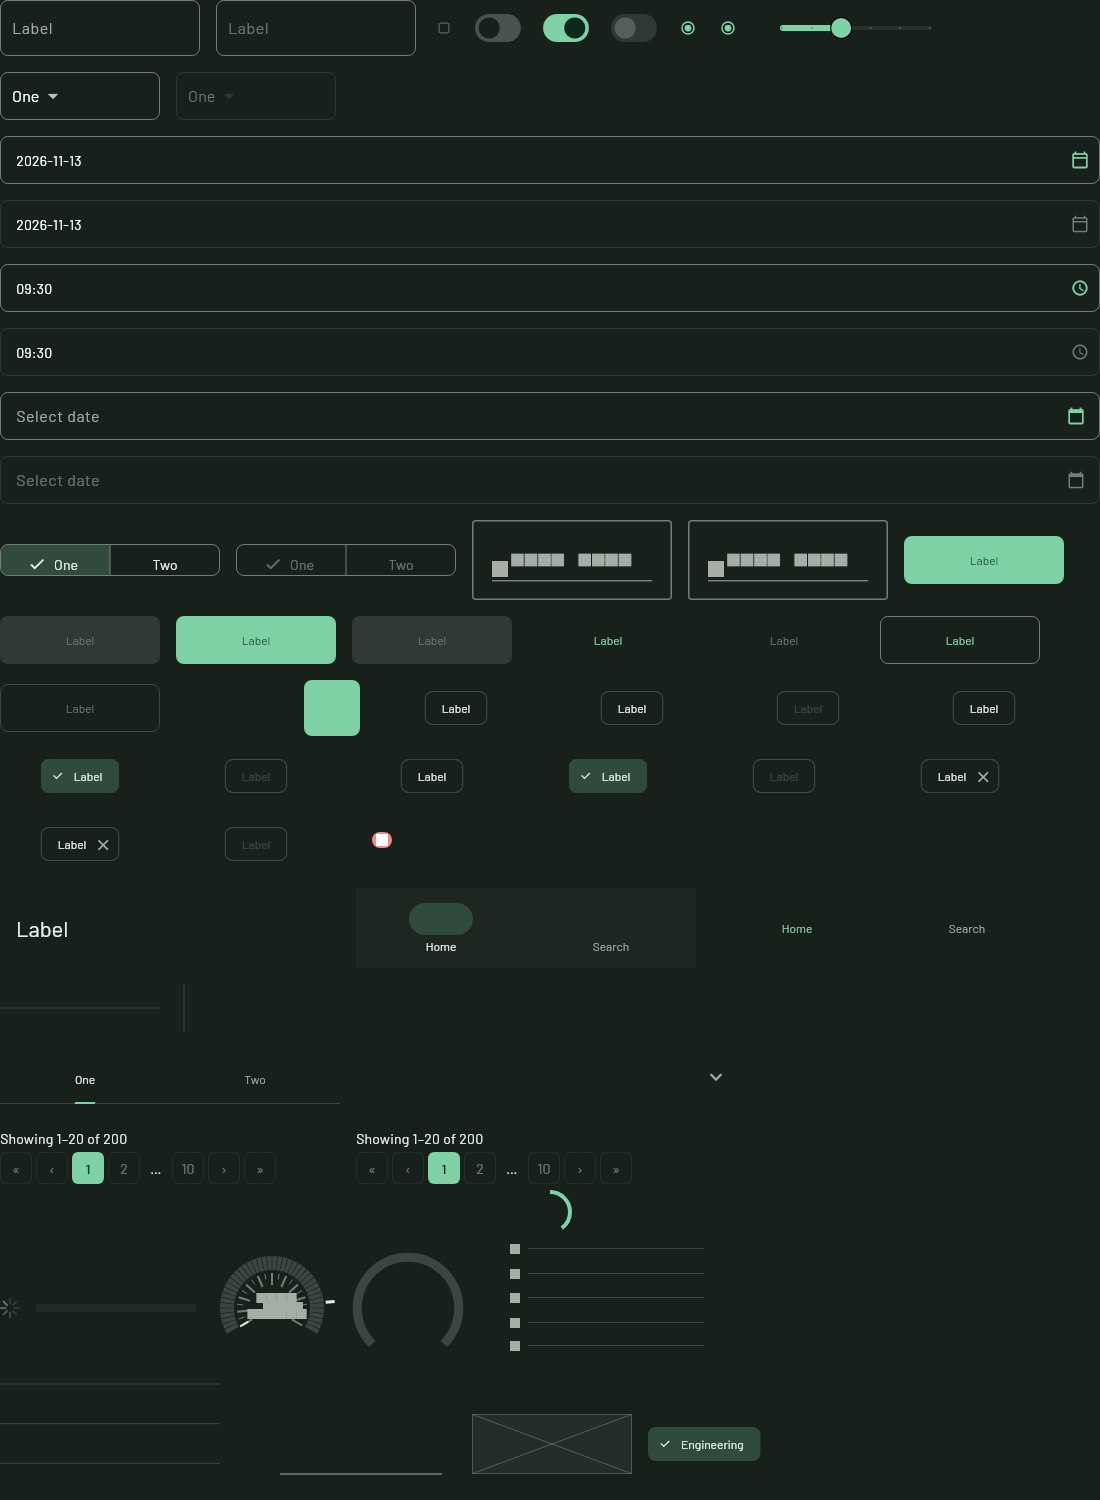
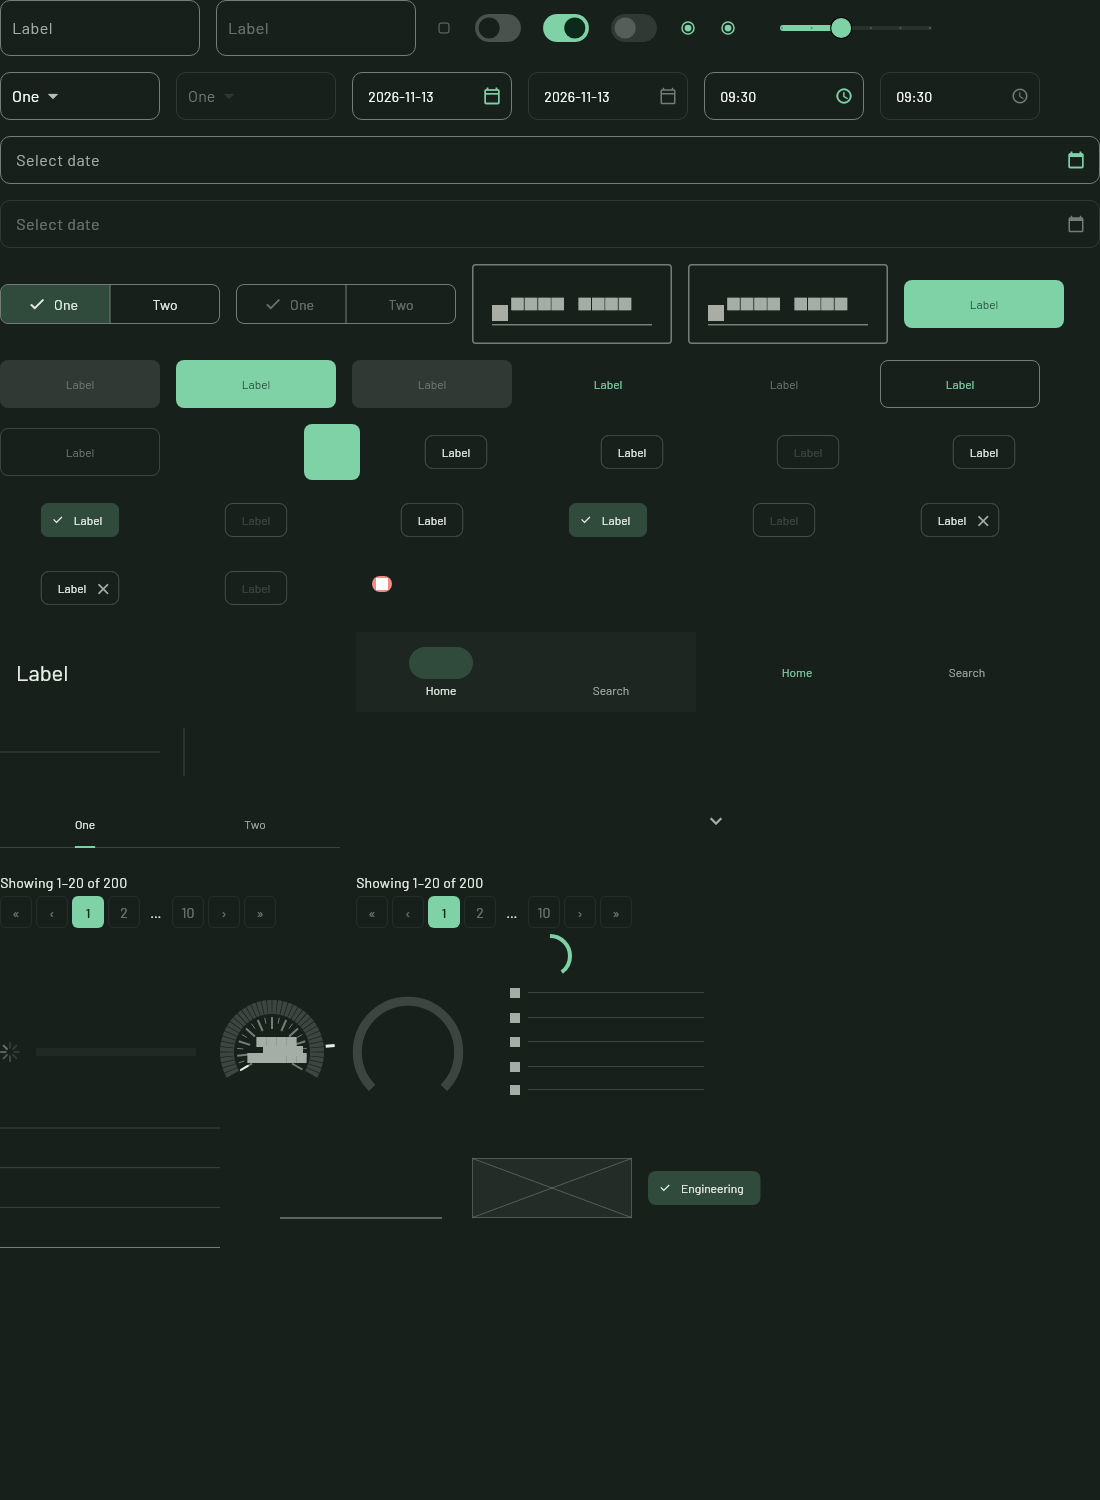
Every labelled control fits its node, its label centred
The control theme drops Material's 48 px tap-target margin and the
platform density, so a control fits the node it is drawn in instead of being
laid out taller and cut. Segmented buttons take the node's height (a
vertical density of (h - 40) / 4: their segments ignore minimumSize); a
one-line field of a set height centres its line at its dense height; date
and time fields centre theirs; tab labels are centred above the
indicator's weight; pagination's buttons are centred down its box.

The guard measures it: each labelled control (every button kind, the chips,
segmented button, tab bar, dropdown, text field with hint and with text,
date, time and date-time fields, pagination) at its default height and 32
px high, in Barlow and Roboto, light and dark, must have each label's glyph
box (BoxHeightStyle.tight: the font's ascent to descent) centred within 1
px of the node's box.

Parity: hugging buttons and chips lose the tap-target margin (48 -> 35-40
and 48 -> 37 high), a hugging icon button 48 -> 36, hugging segmented
buttons 48 -> 40; the nodes after them in their columns move up.

Claude-Session: https://claude.ai/code/session_019VxYXZ8BzY8THaUBbQA8TM

diff --git a/test/app/no_material_look_test.dart b/test/app/no_material_look_test.dart
@@ -407,8 +407,154 @@ String? _inherited(InlineSpan root, InlineSpan target) {
   return found;
 }
 
+/// The labelled controls whose label must sit centred in their box.
+const _labelled = [
+  'filledButton', 'elevatedButton', 'outlinedButton', 'textButton', 'segmentedButton', //
+  'chip', 'actionChip', 'choiceChip', 'filterChip', 'inputChip', 'tabBar', 'dropdown', 'textField', 'datePicker',
+  'timePicker', 'dateTimeInput', 'pagination',
+];
+
+/// Each labelled control twice: at its default height and 32 px high, with a
+/// value (text field: typed text) and once more with only a hint.
+Map<String, Object?> _labelPage() {
+  final nodes = <String, Object?>{};
+  final ids = <String>[];
+  for (final type in _labelled) {
+    final spec = Catalog.current.widget(type)!;
+    // Pagination as one line of page buttons (its summary is a second line).
+    final base = {..._props(type, spec), if (type == 'pagination') 'showSummary': false};
+    final (w, h) = _sizes[type] ?? (160.0, 48.0);
+    for (final (id, height, props) in [
+      ('$type@default', h, base),
+      ('$type@32', 32.0, base),
+      if (type == 'textField') ...[
+        ('$type@default-text', h, {'initialValue': 'Typed'}),
+        ('$type@32-text', 32.0, {'initialValue': 'Typed'}),
+      ],
+    ]) {
+      nodes[id] = {
+        'type': type,
+        'layout': {'width': w, 'height': height},
+        'props': props,
+      };
+      ids.add(id);
+    }
+  }
+  nodes['canvas'] = {
+    'type': 'canvas',
+    'slots': {'body': 'body'},
+    'layout': {'width': _view.width, 'height': _view.height},
+    'decoration': {
+      'fills': [
+        {'color': '#FFFFFFFF'},
+      ],
+    },
+  };
+  nodes['body'] = {
+    'type': 'row',
+    'layout': {
+      'width': {'fill': _view.width},
+      'height': {'fill': _view.height},
+      'padding': {'left': 16, 'top': 16, 'right': 16, 'bottom': 16},
+    },
+    'props': {'wrap': true, 'spacing': 24, 'runSpacing': 24},
+    'children': ids,
+  };
+  return {'schema': 3, 'id': 'labels', 'roots': ['canvas'], 'nodes': nodes};
+}
+
+/// The vertical centre of the glyph box of every non-blank text drawn in
+/// [box] (its paragraphs' and editable texts' lines, `BoxHeightStyle.tight`:
+/// the font's ascent to descent, as Flutter's Text lays a line out without
+/// its leading), in global coordinates.
+List<(String, double)> _labelCentres(RenderBox box) {
+  final out = <(String, double)>[];
+  final area = box.localToGlobal(Offset.zero) & box.size;
+  void visit(RenderObject o) {
+    List<TextBox>? lines;
+    String? text;
+    if (o is RenderParagraph) {
+      text = o.text.toPlainText();
+      if (text.trim().isNotEmpty && !_isGlyph(text.trim())) {
+        lines = o.getBoxesForSelection(TextSelection(baseOffset: 0, extentOffset: text.length),
+            boxHeightStyle: ui.BoxHeightStyle.tight);
+      }
+    } else if (o is RenderEditable) {
+      text = o.text?.toPlainText() ?? '';
+      if (text.trim().isNotEmpty) {
+        lines = [
+          for (final p in o.getBoxesForSelection(TextSelection(baseOffset: 0, extentOffset: text.length)))
+            p,
+        ];
+      }
+    }
+    if (lines != null && lines.isNotEmpty && o is RenderBox && o.attached) {
+      final top = lines.map((b) => b.top).reduce((a, b) => a < b ? a : b);
+      final bottom = lines.map((b) => b.bottom).reduce((a, b) => a > b ? a : b);
+      final g = o.localToGlobal(Offset(0, (top + bottom) / 2));
+      if (area.inflate(1).contains(Offset(area.center.dx, g.dy))) out.add((text!.trim(), g.dy));
+    }
+    o.visitChildren(visit);
+  }
+
+  visit(box);
+  return out;
+}
+
 void main() {
   setUpAll(_loadFonts);
+
+  // Real fonts (Barlow, Roboto), so text is measured by a real ascent and
+  // descent, not drawn as test boxes.
+  for (final (name, family) in [('Barlow', 'Barlow'), ('Roboto', 'Roboto')]) {
+    for (final dark in [false, true]) {
+      testWidgets('every labelled control centres its label in its box, default and 32 px high: $name ${dark ? 'dark' : 'light'}',
+          (tester) async {
+        addTearDown(tester.view.reset);
+        addTearDown(tester.platformDispatcher.clearPlatformBrightnessTestValue);
+        tester.view.physicalSize = _view;
+        tester.view.devicePixelRatio = 1;
+        tester.platformDispatcher.platformBrightnessTestValue = dark ? Brightness.dark : Brightness.light;
+        final theme = ThemeTokens.fromJson({
+          'fontFamily': family,
+          'surface': '#FFFFFFFF',
+          'dark': {'surface': '#FF121212'},
+        });
+        final app = Codelessly.fromBundle(_bundle(_labelPage(), theme), fonts: const NoFontFetcher());
+        final controller = CodelesslyWidgetController();
+        addTearDown(() {
+          controller.dispose();
+          app.dispose();
+        });
+        await tester.pumpWidget(MaterialApp(
+          debugShowCheckedModeBanner: false,
+          home: RepaintBoundary(key: _boundary, child: CodelesslyWidget(codelessly: app, controller: controller)),
+        ));
+        await tester.pump(const Duration(milliseconds: 100));
+        await tester.pump(const Duration(seconds: 1));
+        final dir = Platform.environment['CODELESSLY_THEME_RENDERS'];
+        if (dir != null && dir.isNotEmpty) {
+          await _save(tester, await _capture(tester), 'labels-$name-${dark ? 'dark' : 'light'}');
+        }
+        final off = <String>[];
+        for (final type in _labelled) {
+          for (final id in ['$type@default', '$type@32', if (type == 'textField') ...['$type@default-text', '$type@32-text']]) {
+            final box = controller.tree!.boxOf(id)!;
+            final centre = (box.localToGlobal(Offset.zero) & box.size).center.dy;
+            final labels = _labelCentres(box);
+            if (labels.isEmpty) {
+              off.add('$id: no label found');
+              continue;
+            }
+            for (final (text, y) in labels) {
+              if ((y - centre).abs() > 1) off.add('$id "$text": ${(y - centre).toStringAsFixed(1)} px from the box centre');
+            }
+          }
+        }
+        expect(off, isEmpty, reason: 'labels off centre');
+      });
+    }
+  }
 
   for (final c in _conditions) {
     testWidgets('unstyled controls show no Material default color or font: ${c.name}', (tester) async {

diff --git a/lib/src/widgets/inputs.dart b/lib/src/widgets/inputs.dart
@@ -819,11 +819,17 @@ Widget fullHeightField(
   final InputBorder border = own ?? themeFieldBorder(context, error: error, focused: focused, enabled: decoration.enabled);
   final fill = decoration.filled == true ? (decoration.fillColor ?? Colors.transparent) : Colors.transparent;
   final padEnd = (decoration.contentPadding ?? EdgeInsets.zero).resolve(Directionality.of(context)).right;
+  // Without a floating label, the line is centred in the box at its own
+  // (dense) height, whatever the box's height: a 28 px field is not laid out
+  // for Material's 48 px and cut.
+  final centre = decoration.label == null && decoration.labelText == null;
   final spacer = decoration.prefixIcon == null && decoration.suffixIcon == null;
   return DecoratedBox(
     decoration: ShapeDecoration(color: fill, shape: border),
-    child: build(
+    child: _centred(centre, build(
       decoration.copyWith(
+        contentPadding: centredPadding(context, decoration),
+        isDense: centre ? true : null,
         filled: false,
         border: InputBorder.none,
         enabledBorder: InputBorder.none,
@@ -831,7 +837,7 @@ Widget fullHeightField(
         disabledBorder: InputBorder.none,
         errorBorder: InputBorder.none,
         focusedErrorBorder: InputBorder.none,
-        constraints: BoxConstraints.tightFor(height: height),
+        constraints: centre ? null : BoxConstraints.tightFor(height: height),
         prefixIconConstraints:
             decoration.prefixIcon == null ? null : _tallIcon(decoration.prefixIconConstraints, height),
         suffixIcon: spacer ? SizedBox(width: padEnd, height: height) : decoration.suffixIcon,
@@ -841,8 +847,20 @@ Widget fullHeightField(
                 ? null
                 : _tallIcon(decoration.suffixIconConstraints, height),
       ),
-    ),
+    )),
   );
+}
+
+/// [decoration]'s content padding for a field of a set height whose line
+/// is centred (TextAlignVertical.center): its horizontal padding only, so a
+/// 28 or 32 px field is not laid out for a taller line box and its text and
+/// hint sit on its centre. A field whose label floats keeps its padding (the
+/// label needs the room above the line).
+EdgeInsetsGeometry? centredPadding(BuildContext context, InputDecoration decoration) {
+  final p = decoration.contentPadding;
+  if (p == null || decoration.label != null || decoration.labelText != null) return p;
+  final r = p.resolve(Directionality.of(context));
+  return EdgeInsets.fromLTRB(r.left, 0, r.right, 0);
 }
 
 /// The border of a field that sets none: the theme's field shape (an
@@ -861,6 +879,8 @@ InputBorder themeFieldBorder(BuildContext context, {bool error = false, bool foc
               : scheme.outline;
   return shape.copyWith(borderSide: BorderSide(color: color, width: focused && enabled ? 2 : 1));
 }
+
+Widget _centred(bool centre, Widget field) => centre ? Center(child: field) : field;
 
 /// An icon box as tall as a fixed-height field.
 BoxConstraints _tallIcon(BoxConstraints? c, double height) =>
@@ -1830,6 +1850,9 @@ class _HoverDecoratorState extends State<_HoverDecorator> {
               decoration: widget.decoration.copyWith(
                 enabled: widget.enabled,
                 visualDensity: fills ? VisualDensity.standard : null,
+                // A field of a set height centres its line: no vertical
+                // padding to push it off centre when the height is short.
+                contentPadding: fills ? centredPadding(context, widget.decoration) : null,
               ),
               isHovering: hover && widget.enabled,
               isEmpty: false,
@@ -2166,6 +2189,11 @@ class _SegmentedButtonIslandState extends State<_SegmentedButtonIsland> {
     if (n.prop(SegmentedButtonProps.variant) == SegmentedVariant.track) {
       return _track(context, n, selection, multi);
     }
+    // Without a segment height of its own, the segments are the node's
+    // height (Material's are 40 px, laid out past a shorter node with the
+    // labels off centre).
+    final fixed = n.layout.height.fit == SizeFit.fixed ? n.layout.height.value : null;
+    final height = segmentHeight ?? fixed;
     final button = SegmentedButton<String>(
       segments: segments,
       selected: selection,
@@ -2189,11 +2217,17 @@ class _SegmentedButtonIslandState extends State<_SegmentedButtonIsland> {
         selectedForegroundColor: _color(n.prop(SegmentedButtonProps.selectedForegroundColor)),
         side: side == null ? null : _side(side),
         shape: radius == null ? null : RoundedRectangleBorder(borderRadius: radius.flutter),
-        padding: n.prop(SegmentedButtonProps.padding)?.flutter,
-        minimumSize: segmentHeight == null ? null : Size(0, segmentHeight),
-        maximumSize: segmentHeight == null ? null : Size(double.infinity, segmentHeight),
-        tapTargetSize: n.prop(SegmentedButtonProps.shrinkTapTarget) ? MaterialTapTargetSize.shrinkWrap : null,
-        visualDensity: segmentHeight == null ? null : VisualDensity.standard,
+        padding: n.prop(SegmentedButtonProps.padding)?.flutter ??
+            (height == null ? null : const EdgeInsets.symmetric(horizontal: 12)),
+        minimumSize: height == null ? null : Size(0, height),
+        maximumSize: height == null ? null : Size(double.infinity, height),
+        tapTargetSize: n.prop(SegmentedButtonProps.shrinkTapTarget) || height != null ? MaterialTapTargetSize.shrinkWrap : null,
+        // Its segments are TextButtons 40 px high plus the density's
+        // adjustment (minimumSize does not reach them): a shorter height is
+        // a vertical density of (height - 40) / 4.
+        visualDensity: height == null
+            ? null
+            : VisualDensity(vertical: ((height - 40) / 4).clamp(VisualDensity.minimumDensity, 0).toDouble()),
       ),
       expandedInsets: n.prop(SegmentedButtonProps.expanded) ? EdgeInsets.zero : null,
     );

diff --git a/lib/src/widgets/collections_pagination.dart b/lib/src/widgets/collections_pagination.dart
@@ -174,9 +174,7 @@ class PaginationControls extends StatelessWidget {
         .replaceAll('{page}', '${s.page}')
         .replaceAll('{pageCount}', pageCount == null ? '?' : '$pageCount');
     final options = {...s.pageSizeOptions, s.pageSize}.toList()..sort();
-    return Padding(
-      padding: n.layout.padding.flutter,
-      child: Wrap(
+    final Widget parts = Wrap(
         alignment: _wrapAlignment(n.prop(PaginationProps.alignment)),
         crossAxisAlignment: WrapCrossAlignment.center,
         spacing: spacing * 3,
@@ -202,7 +200,14 @@ class PaginationControls extends StatelessWidget {
               ),
             ]),
         ],
-      ),
+      );
+    return Padding(
+      padding: n.layout.padding.flutter,
+      // Centred down the node's box (a 48 px node and 32 px buttons): a
+      // row whose cross axis is the box's height.
+      child: n.layout.width.fit == api.SizeFit.hug
+          ? parts
+          : Row(crossAxisAlignment: CrossAxisAlignment.center, children: [Expanded(child: parts)]),
     );
   }
 }

diff --git a/test/widgets/toggles_test.dart b/test/widgets/toggles_test.dart
@@ -635,11 +635,13 @@ void main() {
       expect(b.expandedInsets, EdgeInsets.zero);
     });
 
-    testWidgets('by default is Flutter\'s segmented button', (tester) async {
-      await _showSegmented(tester, {}, width: 200, height: 48);
+    testWidgets('by default is Flutter\'s segmented button, its segments the node\'s height', (tester) async {
+      await _showSegmented(tester, {}, width: 200, height: 32);
+      expect(tester.takeException(), isNull);
       final b = tester.widget<SegmentedButton<String>>(find.byType(SegmentedButton<String>));
       expect(b.expandedInsets, isNull);
-      expect(b.style?.minimumSize, isNull);
+      expect(tester.getSize(find.byType(SegmentedButton<String>)).height, closeTo(32, 0.5));
+      expect(b.style?.tapTargetSize, MaterialTapTargetSize.shrinkWrap);
     });
   });
 

diff --git a/lib/src/widgets/collections_islands.dart b/lib/src/widgets/collections_islands.dart
@@ -230,7 +230,11 @@ class _TabBarIslandState extends State<_TabBarIsland> with TickerProviderStateMi
       splashFactory: NoSplash.splashFactory,
       labelColor: n.prop(TabBarProps.labelColor)?.flutter,
       unselectedLabelColor: n.prop(TabBarProps.unselectedLabelColor)?.flutter,
-      labelPadding: n.prop(TabBarProps.labelPadding).flutter,
+      // The bar keeps the indicator's weight free under the labels; as much
+      // above centres them in the bar.
+      labelPadding: n.prop(TabBarProps.labelPadding).flutter +
+          EdgeInsets.only(
+              top: n.prop(TabBarProps.indicatorStyle) == api.TabIndicatorStyle.underline ? n.prop(TabBarProps.indicatorWeight) : 0),
       tabs: [for (final t in n.prop(TabBarProps.tabs)) _tab(n, t)],
     );
   }

diff --git a/lib/src/render/control_theme.dart b/lib/src/render/control_theme.dart
@@ -287,6 +287,12 @@ ThemeData _themeData(api.ThemeTokens tokens, Brightness requested, Color? backdr
 
   return ThemeData(
     useMaterial3: true,
+    // A control fits the node it is drawn in: no 48 px tap-target margin
+    // around it and no platform density, so a 28 or 32 px node shows the
+    // whole control with its label centred, never a taller control cut or
+    // shifted.
+    materialTapTargetSize: MaterialTapTargetSize.shrinkWrap,
+    visualDensity: VisualDensity.standard,
     colorScheme: scheme,
     typography: typography,
     fontFamily: body,
